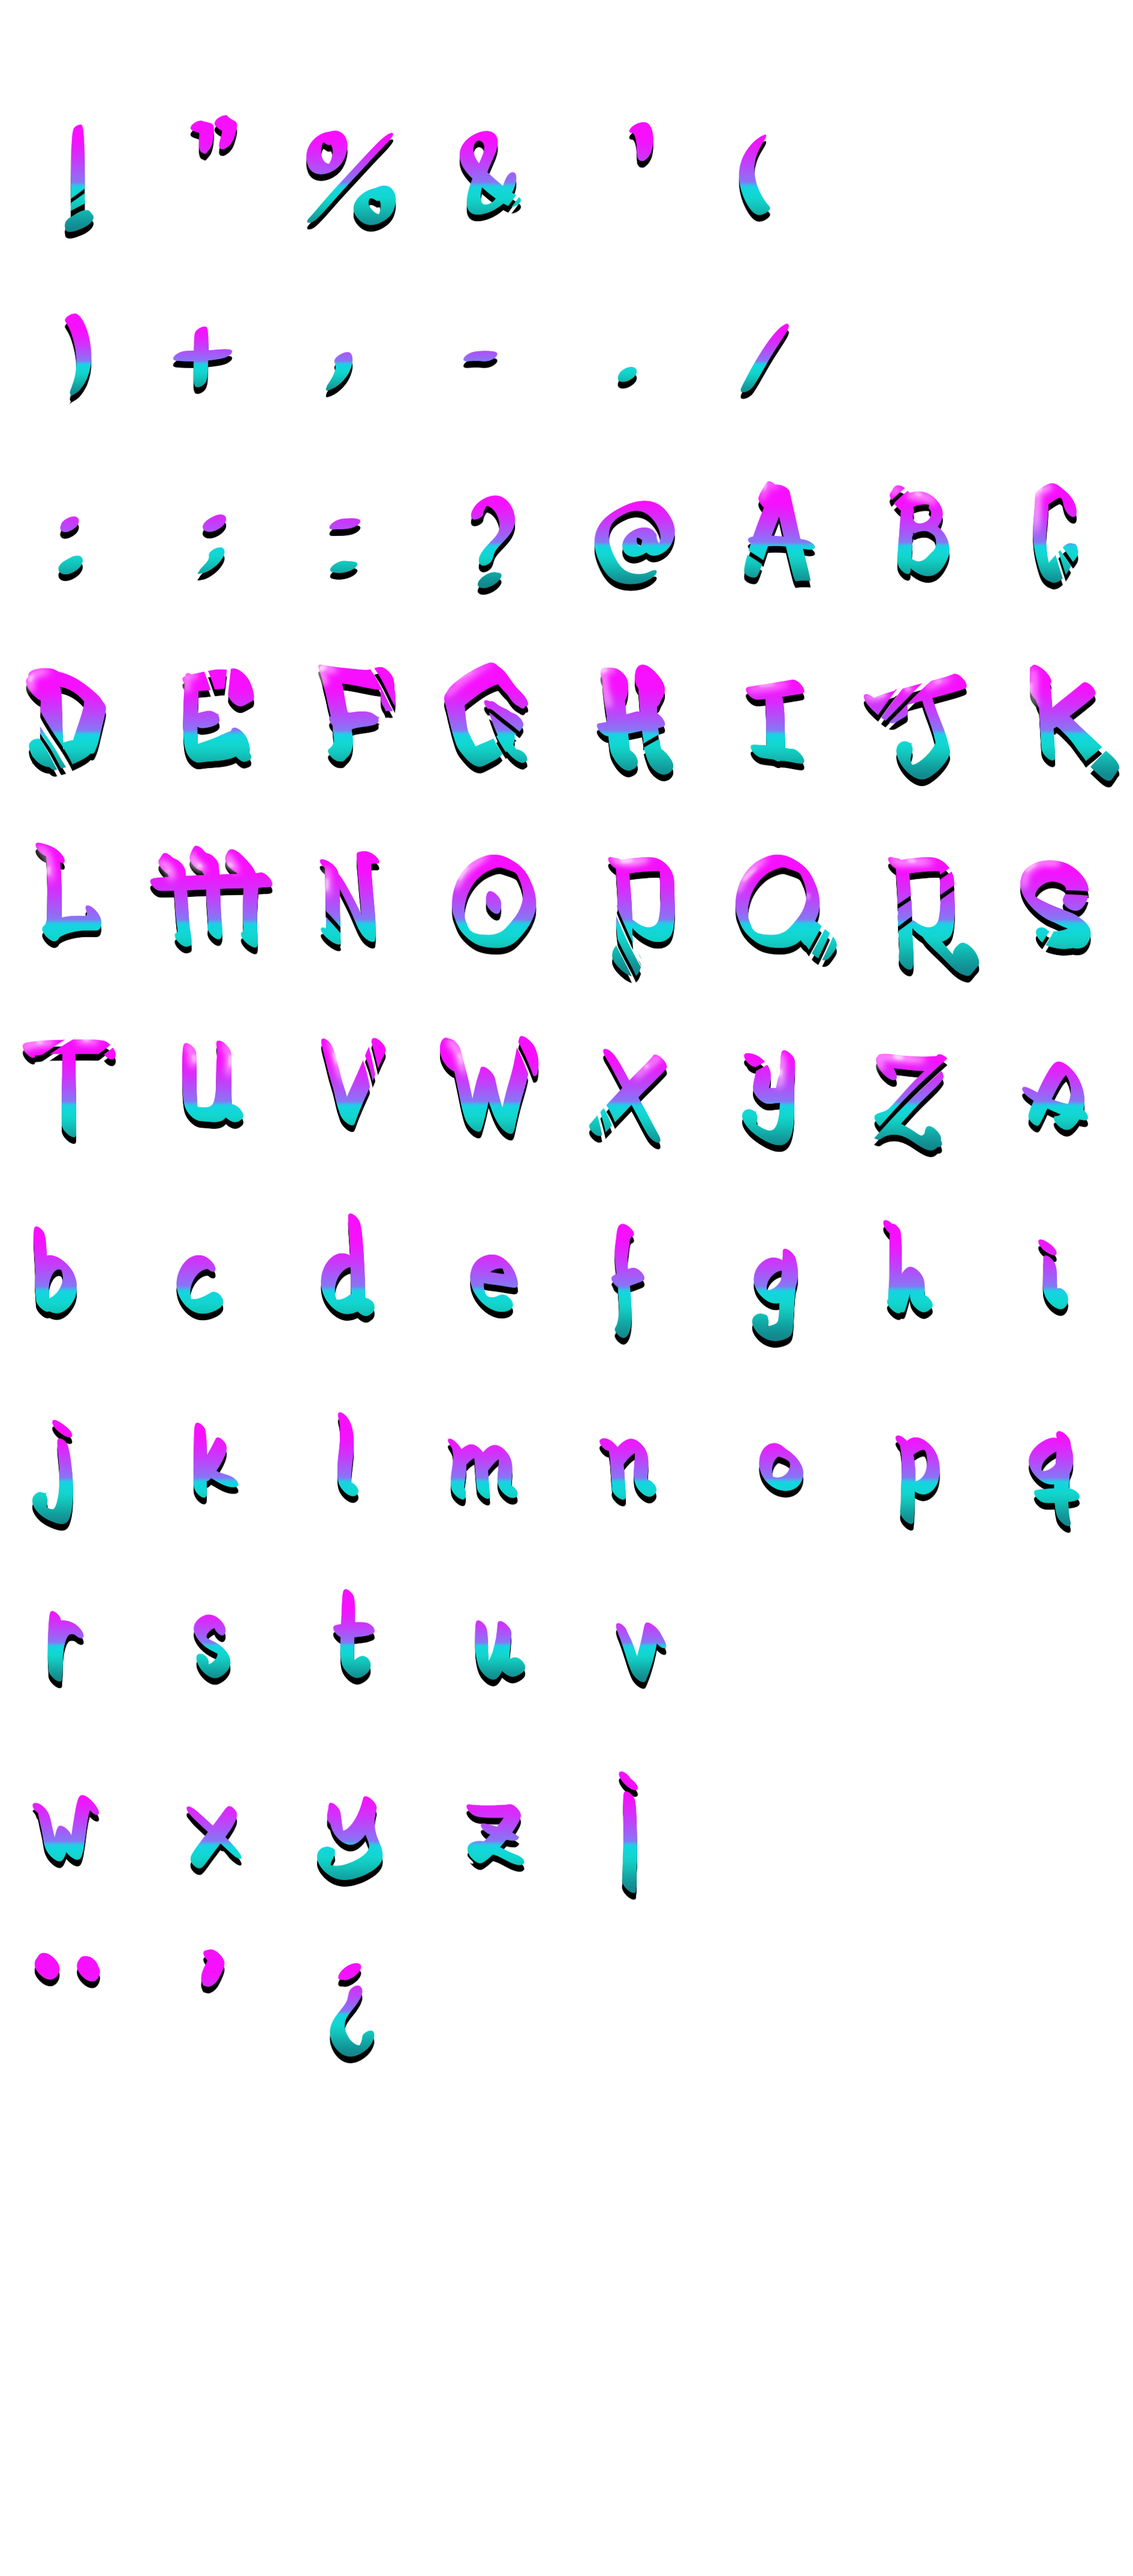
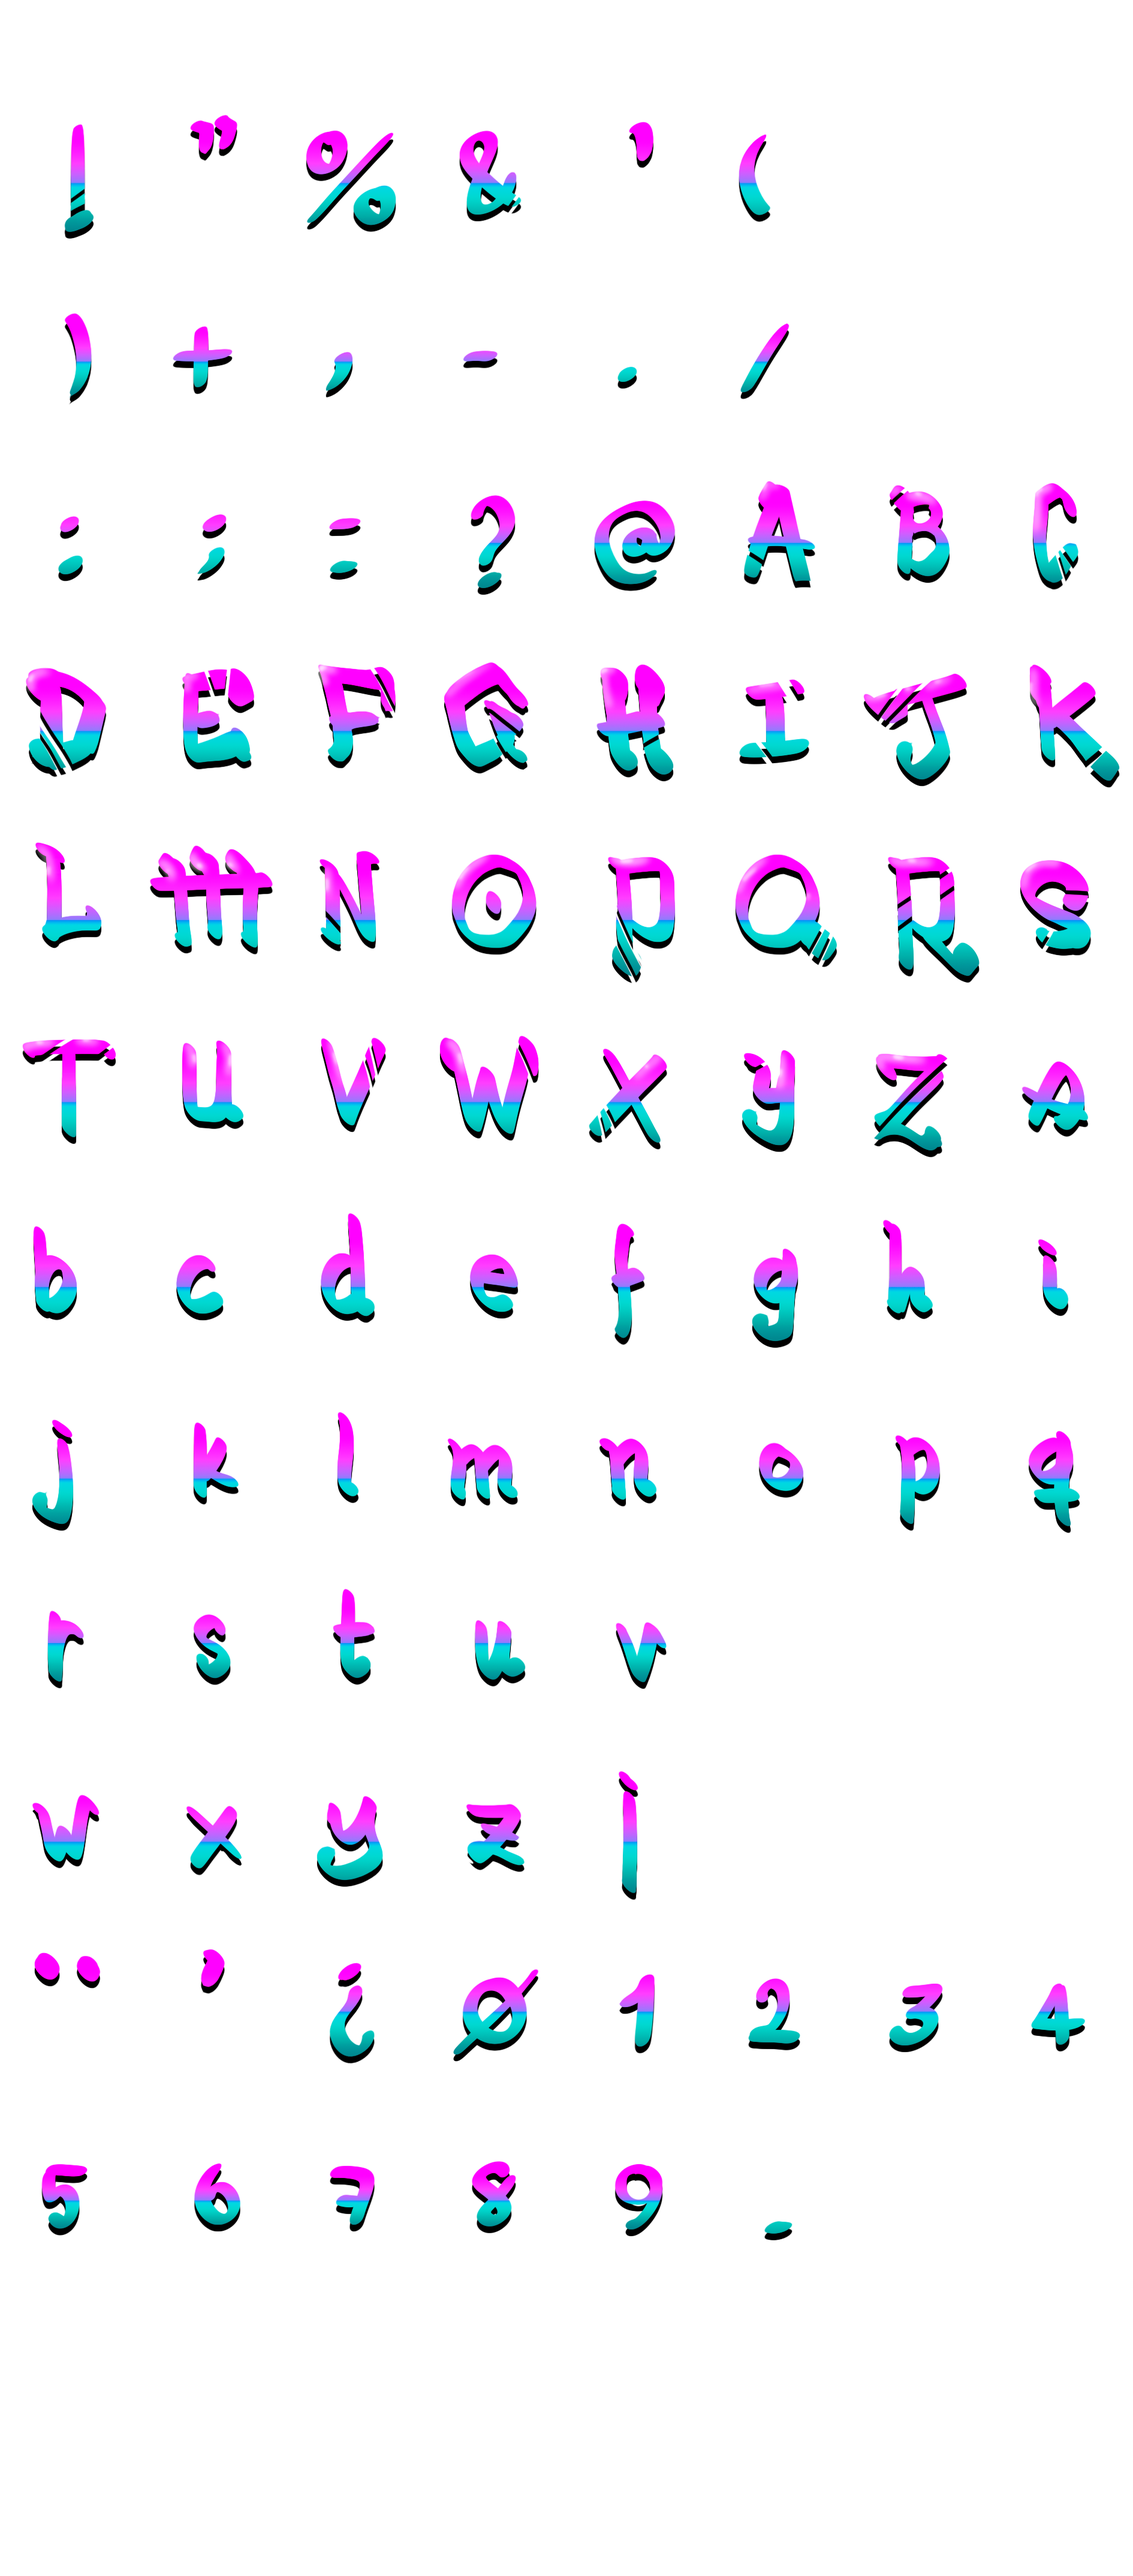
numbers and longer message in scroller

diff --git a/src/scroller.rs b/src/scroller.rs
@@ -22,13 +22,19 @@ impl Scroller {
         let char_map = Self::create_char_map();
         let message = 
 "¡Este es un mensaje de AkinoSoft al mundo!
- ¡AkinoPower! Las demos de navidad mas cutres de la demoscene.
+ ¡AkinoPoder! Las demos de navidad mas cutres de la demoscene.
  ¿No conoces al grupo AkinoSoft? Somos los mejores coders, preventas,
  ilustradores y administradores de sistemas que han existido. 
  Somos ricos y guapos, como jodidas estrellas de rock.
  ¡FELIZ NAVIDAD CABRONES!
- Saludos a mis coleguitas Ikky, Palo, Rx, Lethe y Po.
- Besitos a mis amores Marta, Raquel y Ester."
+ Saludos a mis coleguitas Ikky, Po, Rx, Fabi, Lethe y Palo.
+ Por las redes estan: @ruben3d, @itorres@xin.cat, @PalomoGarron,
+ @frikivetusto, @Rheovarn, @Rober_dcm, @ouros, @LordTaishi, @gerarw,
+ @TamL46, @Qetu, @Titonosfe, @Rivudo, @ikkante, @pedro_ru_mo, @kanotson,
+ @DavidBokeh, @reemplazable. 
+ Besitos a mis amores Marta, Raquel y Ester.
+ Code: @idaho06 Gfx: @ikkante Music: Fabi
+ --( Pulsa ESC para salir )--"
             .replace('\n', "");
         let message_len = message.chars().count();
         // Populate the string message
@@ -140,16 +146,16 @@ impl Scroller {
         char_map.insert('-'.to_string(), Rect::new(768, 469, 68, 254));
         char_map.insert('.'.to_string(), Rect::new(1026, 469, 42, 254));
         char_map.insert('/'.to_string(), Rect::new(1228, 469, 96, 254));
-        // char_map.insert('0'.to_string(), Rect::new(144, 140, 57, 100));
-        // char_map.insert('1'.to_string(), Rect::new(221, 140, 57, 100));
-        // char_map.insert('2'.to_string(), Rect::new(298, 140, 57, 100));
-        // char_map.insert('3'.to_string(), Rect::new(375, 140, 57, 100));
-        // char_map.insert('4'.to_string(), Rect::new(452, 140, 57, 100));
-        // char_map.insert('5'.to_string(), Rect::new(529, 140, 57, 100));
-        // char_map.insert('6'.to_string(), Rect::new(606, 140, 57, 100));
-        // char_map.insert('7'.to_string(), Rect::new(683, 140, 57, 100));
-        // char_map.insert('8'.to_string(), Rect::new(760, 140, 57, 100));
-        // char_map.insert('9'.to_string(), Rect::new(837, 140, 57, 100));
+        char_map.insert('0'.to_string(), Rect::new(753, 3220, 147, 254));
+        char_map.insert('1'.to_string(), Rect::new(1030, 3220, 66, 254));
+        char_map.insert('2'.to_string(), Rect::new(1245, 3220, 92, 254));
+        char_map.insert('3'.to_string(), Rect::new(1481, 3220, 94, 254));
+        char_map.insert('4'.to_string(), Rect::new(1718, 3220, 94, 254));
+        char_map.insert('5'.to_string(), Rect::new(67, 3535, 81, 254));
+        char_map.insert('6'.to_string(), Rect::new(322, 3535, 81, 254));
+        char_map.insert('7'.to_string(), Rect::new(548, 3535, 79, 254));
+        char_map.insert('8'.to_string(), Rect::new(785, 3535, 78, 254));
+        char_map.insert('9'.to_string(), Rect::new(1023, 3535, 85, 254));
         char_map.insert(':'.to_string(), Rect::new(91, 772, 54, 254));
         char_map.insert(';'.to_string(), Rect::new(323, 772, 61, 254));
         // char_map.insert('<'.to_string(), Rect::new(20, 260, 69, 100));
@@ -187,7 +193,7 @@ impl Scroller {
         char_map.insert('\\'.to_string(), Rect::new(1039, 170, 62, 254));
         // char_map.insert(']'.to_string(), Rect::new(769, 500, 43, 100));
         // char_map.insert('^'.to_string(), Rect::new(832, 500, 69, 100));
-        // char_map.insert('_'.to_string(), Rect::new(921, 500, 63, 100));
+        char_map.insert('_'.to_string(), Rect::new(1263, 3535, 71, 254));
         // char_map.insert('`'.to_string(), Rect::new(20, 620, 57, 100));
         char_map.insert('a'.to_string(), Rect::new(1700, 1703, 120, 254));
         char_map.insert('b'.to_string(), Rect::new(47, 2013, 86, 254));

diff --git a/src/main.rs b/src/main.rs
@@ -67,11 +67,11 @@ pub fn main() -> Result<(), String> {
 
         //logo.render(&mut display);
 
-        //scroller.render(&mut display);
+        scroller.render(&mut display);
 
         //platonics.render(&mut display);
 
-        torus.render(&mut display);
+        //torus.render(&mut display);
 
         display.present_canvas();
 
